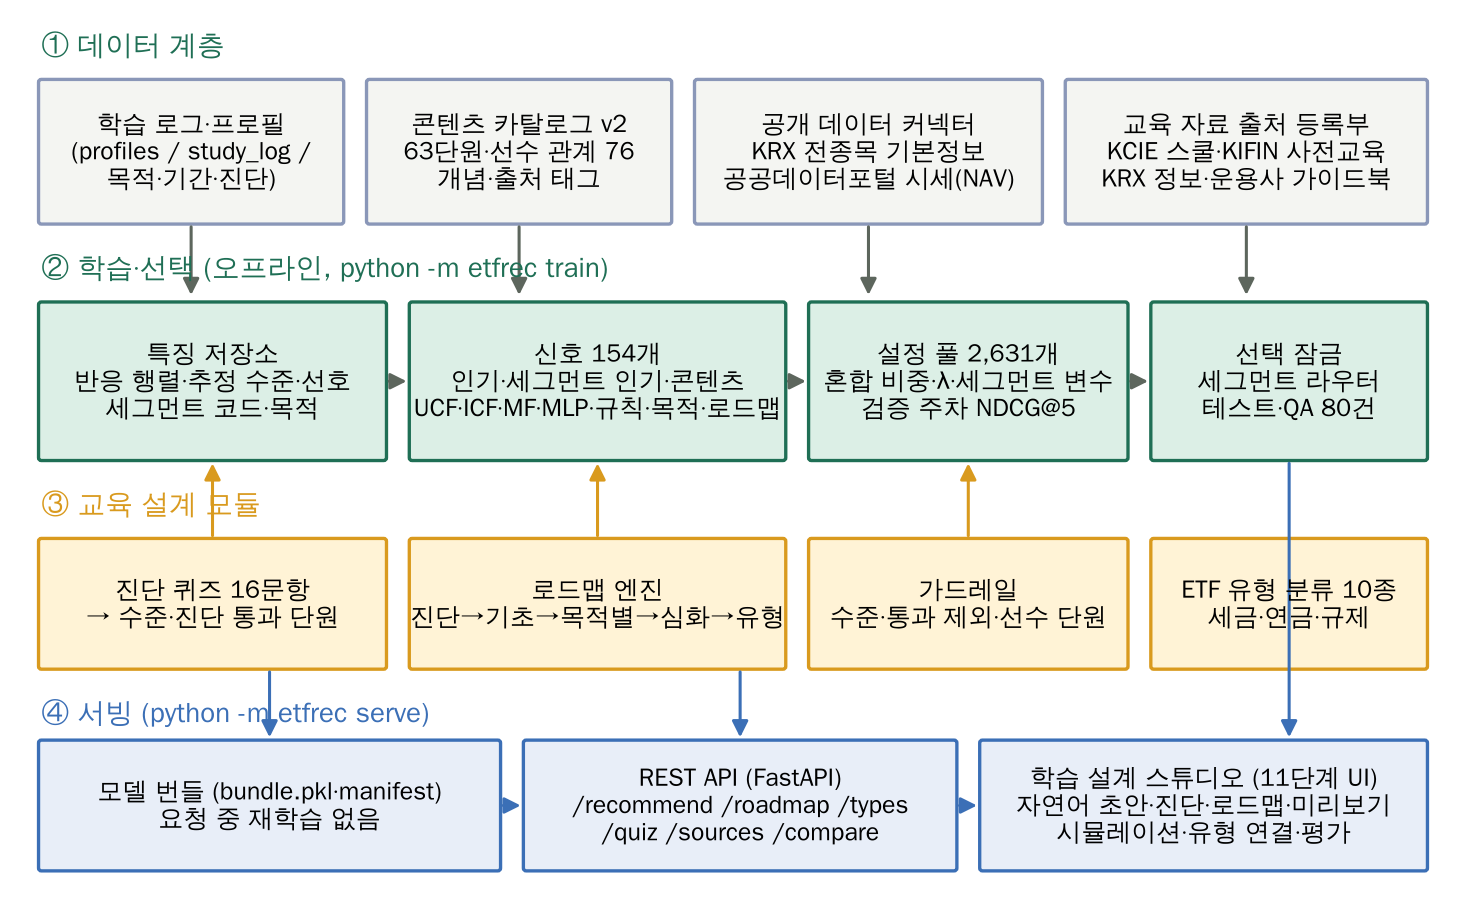
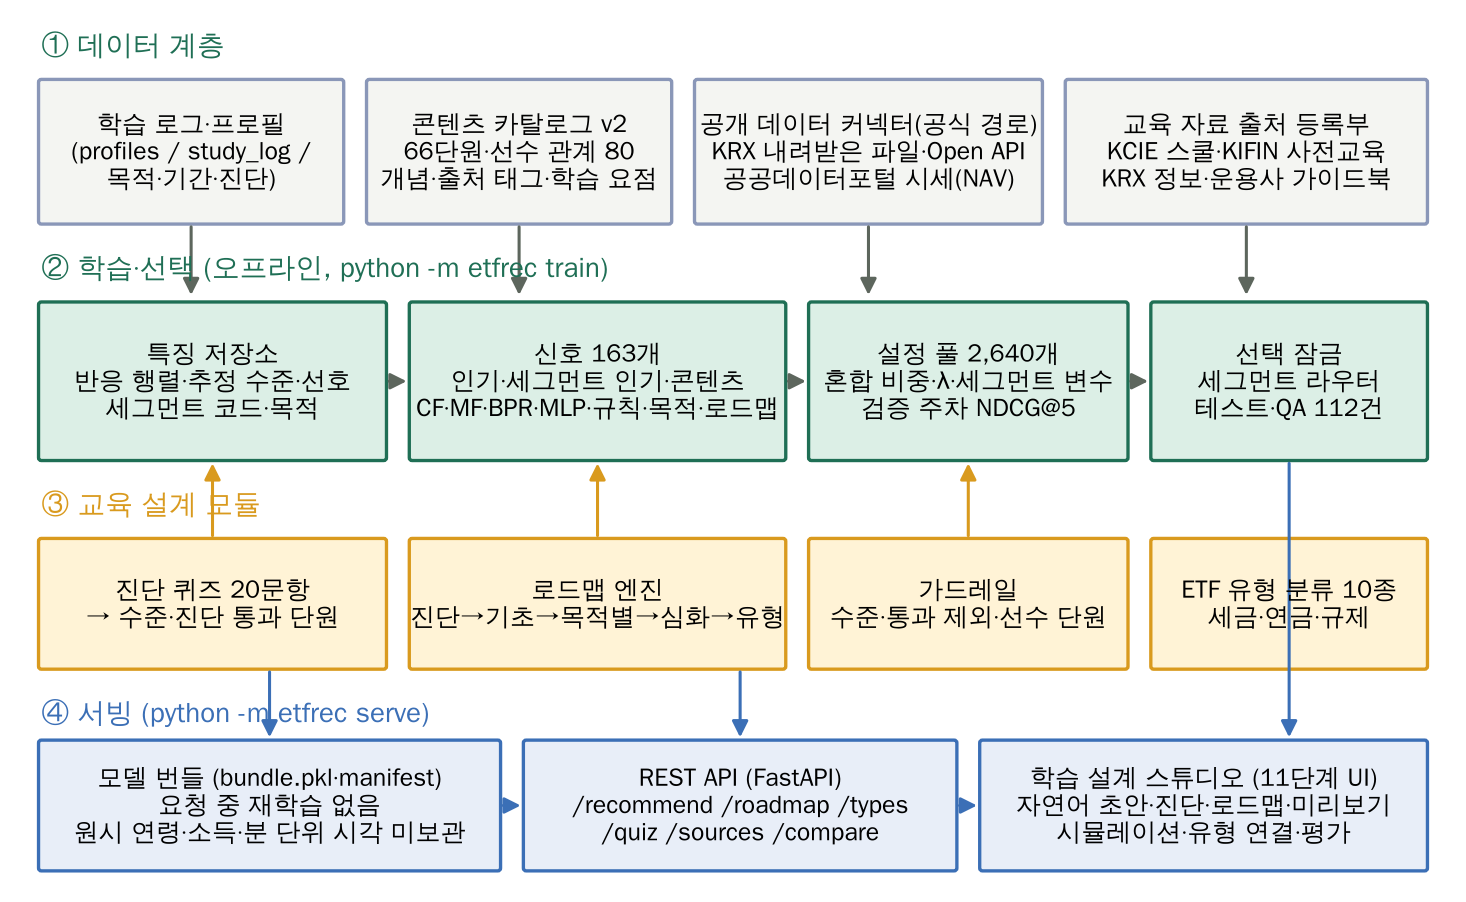
Keep the first-draft report for quote checks; refresh report figures
- docs/report/중간보고서_1차본_2026-10-13.docx is the draft the critique reviewed,
  kept so the response report's quotations can be checked against it.
- Report figures regenerated from the retrained bundles.
- README links the first draft and the report build pipeline.

Claude-Session: https://claude.ai/code/session_01Tgh9FaD7Z5CarJfhd185SF

diff --git a/README.md b/README.md
@@ -15,7 +15,8 @@
 
 - 중간보고서(Word): `docs/report/중간보고서_ETF_교육_콘텐츠_추천시스템.docx` — 문제·시나리오, 추천 기법 요약과 한계, 데이터·확보 계획, 시스템 설계·구현 현황, 실험 결과(v1 재현, v2, 선수 가드레일 민감도), 평가 계획, 일정, 부록(API·퀴즈·용어집·재현).
 - 비판 검토·보완 보고서(Word): `docs/report/비판검토_보완보고서.docx` — 중간보고서 1차본에 대한 비판을 문장 단위로 검토해 수용·부분 수용·불수용 판정과 근거, 간과한 이유, 고친 코드와 바뀐 수치를 정리.
-- 보고서 그림: `docs/report/fig*.png`, 화면 캡처: `docs/screens/*.png`, 민감도 결과: `docs/results/prereq_sensitivity.json`.
+- 중간보고서 1차본(비판 대상, 2026-10-13): `docs/report/중간보고서_1차본_2026-10-13.docx` — 비판 검토 보고서가 인용한 원문 대조용.
+- 보고서 그림: `docs/report/fig*.png`, 화면 캡처: `docs/screens/*.png`, 민감도 결과: `docs/results/prereq_sensitivity.json`, 보고서 생성 스크립트: `docs/report/build/`(번들 → `export_data.py` → `report_data.json` → `build_report.js`·`build_critique_response.js`).
 
 ## 빠른 시작
 
